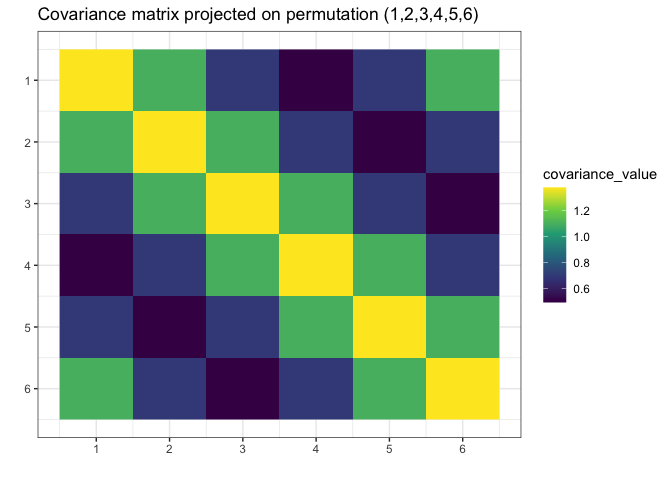
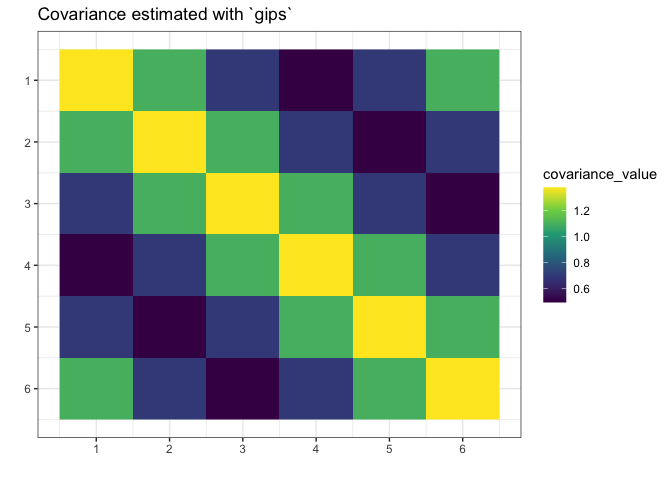
README additional plot

Changed region(s): [[0.1875, 0.0, 0.7188, 0.0625]]

diff --git a/README.md b/README.md
@@ -190,6 +190,16 @@ Make the gips object out of data:
 g <- gips(S, number_of_observations, was_mean_estimated = FALSE)
 ```
 
+We can see the standard estimator of the covariance matrix,
+$\hat{\Sigma} = \sum_{i=1}^n \left( Z^{(i)}\left({Z^{(i)}}^\top\right)\right)$.
+It is not MLE (again, because MLE does not exists):
+
+``` r
+plot(g, type = "heatmap") + ggplot2::ggtitle("Covariance estimated in standard way")
+```
+
+<img src="man/figures/README-example_mean_known3_1-1.png" width="100%" />
+
 Find the Maximum A Posteriori Estimator for the permutation. Space is
 small ($6! = 720$), so it is reasonable to browse the whole of it:
 
@@ -230,7 +240,7 @@ S_projected
 #> [6,] 1.0985729 0.6960213 0.4960295 0.6960213 1.0985729 1.3747718
 
 # Plot the found matrix:
-plot(g_map, type = "heatmap")
+plot(g_map, type = "heatmap") + ggplot2::ggtitle("Covariance estimated with `gips`")
 ```
 
 <img src="man/figures/README-example_mean_known6-1.png" width="100%" />
